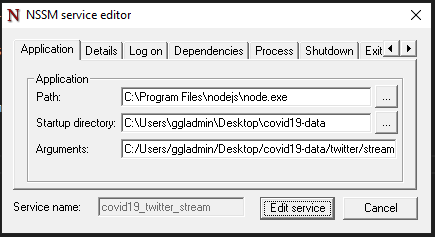
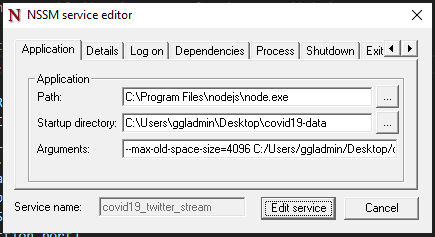
Add memory allocation limit for node nssm setup

diff --git a/twitter/SETUP.md b/twitter/SETUP.md
@@ -60,7 +60,9 @@ In the `Application` tab, apply the following settings:
 
 * Set the `Path` to your node installation
 * Set the `Startup Directory` to the `covid19-data` folder
-* Set the `Arguments` the `twitter/stream.js` file with forward slashes `/`
+* Set the `Arguments` to:
+    * `--max-old-space-size=4096` followed by a space (this sets the memory limit for node)
+    * Followed by `twitter/stream.js` file with forward slashes `/`
 
 ![Example of Application settings](img/nssm_application.PNG)
 
